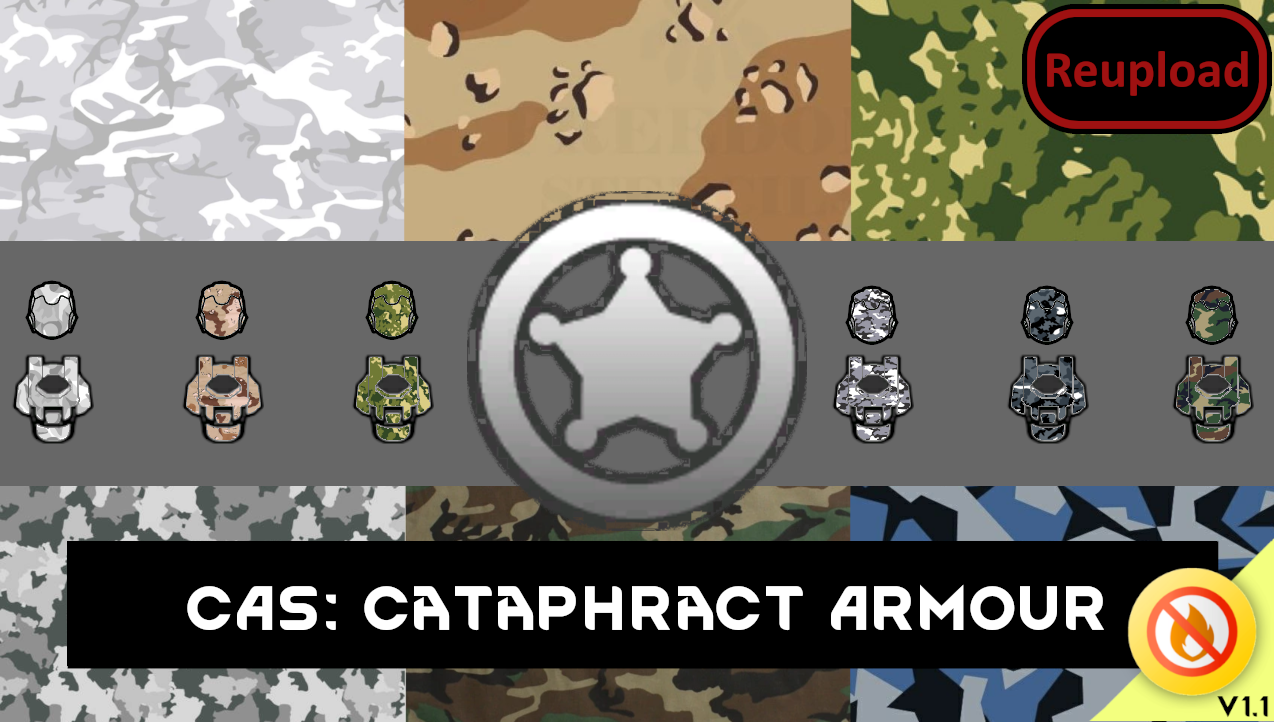
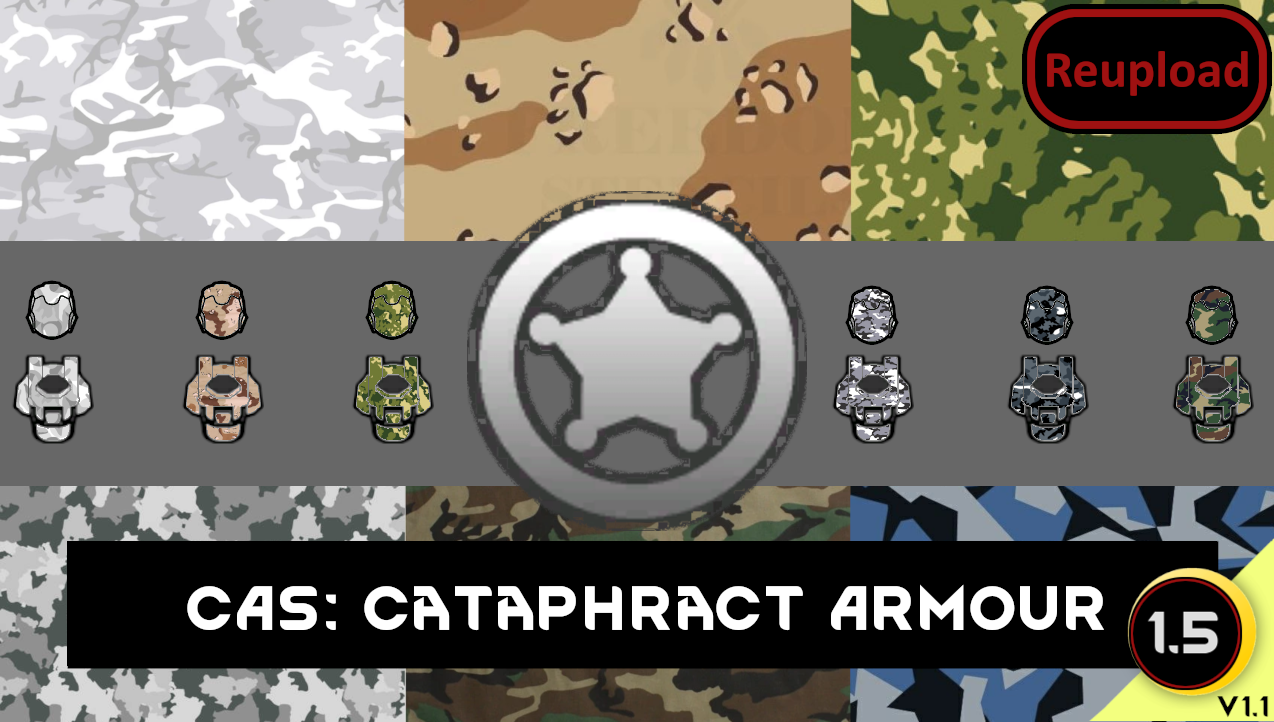
Mod updated for 1.5 and passed autotests

Changed region(s): [[0.8878, 0.7922, 0.9796, 0.9751]]

diff --git a/README.md b/README.md
@@ -40,11 +40,13 @@ Japanese translation - Proxyer
 
 -  See if the the error persists if you just have this mod and its requirements active.
 -  If not, try adding your other mods until it happens again.
--  Post your error-log using https://steamcommunity.com/workshop/filedetails/?id=818773962]HugsLib and command Ctrl+F12
+-  Post your error-log using https://steamcommunity.com/workshop/filedetails/?id=818773962]HugsLib or the standalone https://steamcommunity.com/sharedfiles/filedetails/?id=2873415404]Uploader and command Ctrl+F12
 -  For best support, please use the Discord-channel for error-reporting.
 -  Do not report errors by making a discussion-thread, I get no notification of that.
 -  If you have the solution for a problem, please post it to the GitHub repository.
+-  Use https://github.com/RimSort/RimSort/releases/latest]RimSort to sort your mods
 
 
 
+https://steamcommunity.com/sharedfiles/filedetails/changelog/2196958241]![Image](https://img.shields.io/github/v/release/emipa606/CASCataphractArmour?label=latest%20version&style=plastic&color=9f1111&labelColor=black)
 
